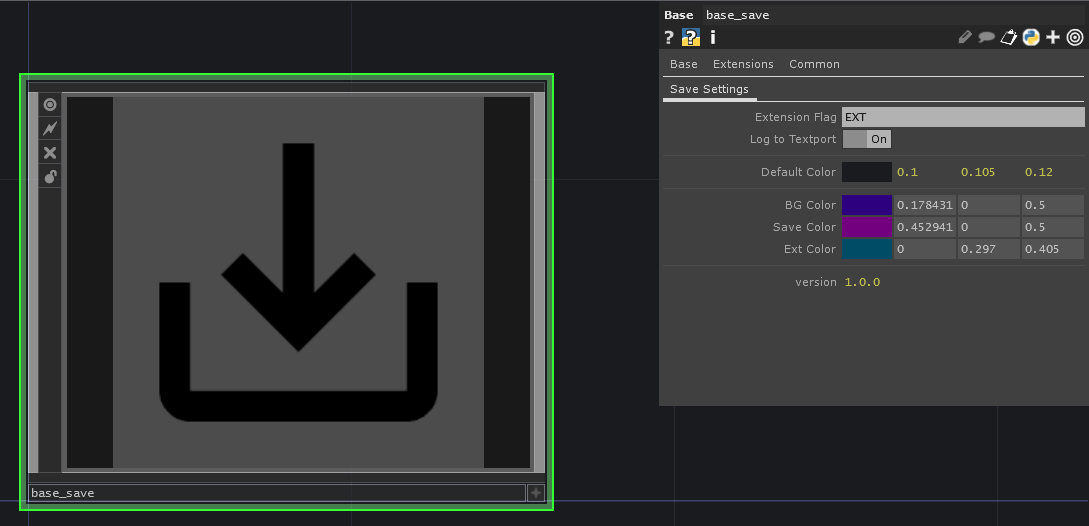
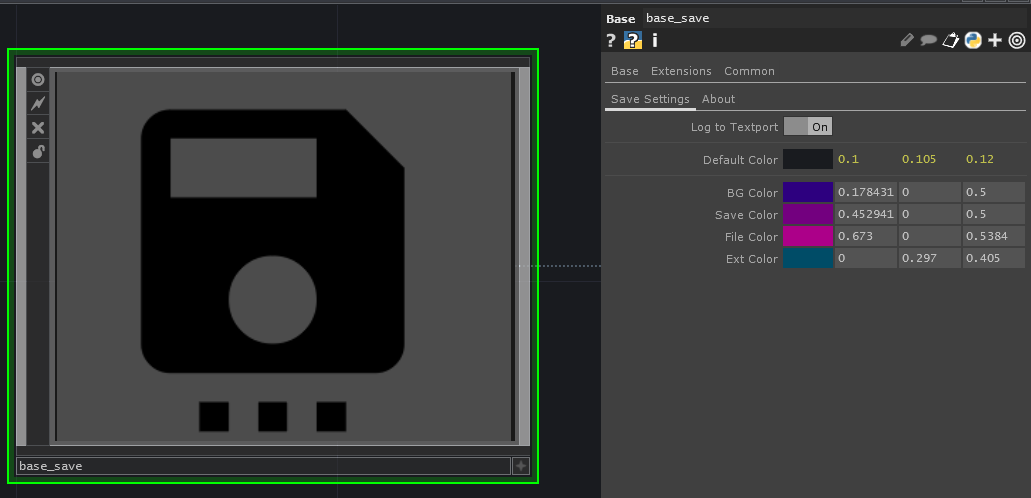
Ready for Merge
Updated Readme
Updated Examples

diff --git a/README.md b/README.md
@@ -1,9 +1,9 @@
 # TouchDesigner Save External
 *a simple save external tox and text helper*  
-[matthew ragan](matthewragan.com)
+[matthew ragan](matthewragan.com) | [SudoMagic](sudomagic.com)
 
 ## TouchDesigner Version
-* 099 2018.26750
+* 099 2021.13610
 
 ## OS Support
 * Windows 10
@@ -20,20 +20,10 @@ That makes these components excellent candidates for externalization, but it tak
 
 ## Supported File Types
 * `.tox`
-* `.py`
-* `.glsl`
-* `.json`
-
-In addition to externalizing tox files, it's often helpful to also externalize any files that can be dffed in git - that is any files you can compare meaningfully. When it comes to your version control tool, this means that you can track the changes you or a team member have made from one commit to another. Being able to see what changed over time can help you determine why one version works and another does not. Practically speaking, this usually comes in the form of python files, glsl, or json files. This little tool supports the above file types, and goes a little further. 
-
-"What's further mean?" You ask - and I'm so glad you did. Furhter means that if you change this file outside of touch - say in a text editor like Sublime or Visual Studio Code, this TOX module will watch to see if that file has changed, and if it has pulse reload the operator that's referencing that file. Better still, if it's an extension, the `parent()` operator will have its extensions reinitialized. There's a little set-up and convention required there, but well worth it if you happen to use extension on a regular basis. 
 
 
 # Parameters
-![base save and pars](https://github.com/raganmd/touchdesigner-save-external/blob/master/assets/base_save_and_pars.PNG?raw=true)  
-
-### Extension Flag
-The Extension Flag is the tag you will add to any text DAT that you're using as an extension. This ensures that we can easily identify which text DATs are being used as externally edited extensions, and reload both the contents of the DAT, as well reinitialize the extensions for the `parent()` operator. You can use any descriptor here that you like - I happen to think that something like `EXT` works well.
+![base save and pars](assets/base_save_and_pars.PNG)  
 
 ### Log to Texport
 If you want to track when and where your external files are being saved, or if you're worried that something might be going wrong, you can turn on the `Logtotextport` parmeter to see the results of each save operation logged for easy view and tracking.
@@ -42,35 +32,31 @@ If you want to track when and where your external files are being saved, or if y
 The default color is set as a read-only parameter used to reset the network worksheet background color. This is used in conjunction with the following two parameters to provide visual indicators for when a save or load operation has happened.
 
 ### BG Color
-This is the color that the network background will flash when you externalize a TOX - it's the visual indicator that your tox has been sucessfully saved.
+This is the color that the network background will flash when you externalize a TOX - it's the visual indicator that your tox has been successfully saved.
 
 ### Save Color
 This is the color that the network background will flash save a text based file in an external editor - it's the visual indicator that your file has been reloaded.
 
+### File Color
+All DATs that have been externalized can be set to this color so you can more quickly identify external text files.
+
 ### EXT Color
-This is the color used to set the node color of your newly externalized tox - this can help ensure that at a glance you can tell which operators have been externalized.
+This is the color used to set the node color of your newly externalized tox - this can help ensure that at a glance you can tell which operators have been externalized. Changing this parameter will also update the color of all external components. This change isn't saved until you manually save each component.
 
 ### Version
 The version number for this tool.
 
-# Operation
-
-### `reinitextensions.pulse()`
-If you want to use this in conjunction with extensions, you'll need to follow a few conventions: 
-* The text DAT that references an extension needs to be inside of the COMP uses it as an extension. For example - let's say you have a text DAT that holds an extension called `Project`, this needs to live inside of the COMP that is using it as an extension.
-* The file you're editing needs to end in `.py`. This might seem obvious, but it's important that the file you're editing is a python file. There are a number of checks that happen to make sure that we don't just reinit COMPs willy nilly, and this is one of those safety measures. 
-* The text DAT holding the extension needs to be tagged `EXT` - or whatever Extension Flag you've set in the parameters for the TOX. This makes sure that we don't just reinit the extensions of our parent every-time any .py file is saved, but only if the that file belongs is being read by a textDAT that's marked as being an extension.
-
-### `ctrl+s`
+### `ctrl+w`
 The way you'll use this tox is just as if you were working as you might normally. Only, when you hit `ctrl + s`, if you're inside of a COMP that hasn't been saved externally, you'll be asked if you want to externalize that module. If you select `yes` you'll next be asked where you want to save that module. This module will then create a folder that has the same name as your component, and save the tox inside of that folder (the tox will also have the same name as the component). Better yet, this module will auto-populate the path to the external tox with the location you've selected. When you press `ctrl + s` again it will warn you that you're about to over-write your tox. If you confirm that you want to replace your tox, it will save the updated version right where your previous tox was located. 
 
-### Using a text editor
-If you're using a text editor for supported externalized files, than work as you normally might. When you save your file in your text editor Touch will automatically reload the file in Touch. If your text DAT is tagged `EXT` it will also reinit the extensions of the text DAT's `parent()`. 
+### `ctrl+shift+w`
+In addition to saving a single file, you can also see all the components that you've changed by using this shortcut. This will open a menu of all `dirty` components that may need to be saved. You can then save them directly from this menu.
+
 
 # Suggested Workflow
 ## Externalization Only
 1. Create a directory for your project  
-![create-a-dir](https://github.com/raganmd/touchdesigner-save-external/blob/master/assets/create-project-dir.PNG?raw=true)
+![create-a-dir](assets/create-project-dir.PNG)
 
 2. Open TouchDesigner and save your `.TOE` file in your new directory **this is an important step** - saving your project makes sure that the member `project.folder` correct points to your `.TOE` file.  
 ![create-a-project](https://github.com/raganmd/touchdesigner-save-external/blob/master/assets/create-project-toe.PNG?raw=true)
@@ -79,80 +65,53 @@ If you're using a text editor for supported externalized files, than work as you
 ![drag-into-network](assets/drag-into-network.gif)
 
 4. Create a new component, and navigate inside of this new COMP.  
-![create-a-new-comp](https://github.com/raganmd/touchdesigner-save-external/blob/master/assets/create-new-comp.PNG?raw=true)
+![create-a-new-comp](assets/create-new-comp.PNG)
 
 5. Use `ctrl + s` to save your project as you might usually.
 6. Notice that you're now prompted to save your COMP externally - select `Yes`  
-![ctrl-s](https://github.com/raganmd/touchdesigner-save-external/blob/master/assets/prompt-to-externalize.PNG?raw=true)
+![ctrl-s](assets/prompt-to-externalize.PNG)
 
 7. Create a new folder in your project folder called `td-modules` (this is my suggestion, though you can use any name you like). Navigate into this folder and compete the save process.  
-![create-a-modules-dir](https://github.com/raganmd/touchdesigner-save-external/blob/master/assets/create-td-modules-dir.PNG?raw=true)
+![create-a-modules-dir](assets/create-td-modules-dir.PNG)
 
 8. Check finder (macOS) or explorer (windows) to see that in `td-moduels` you now have a new directory for your tox, and inside of that directory is your saved tox file.  
-![newly-made-dir](https://github.com/raganmd/touchdesigner-save-external/blob/master/assets/new-save-dir.PNG?raw=true)  
-![newly-saved-tox](https://github.com/raganmd/touchdesigner-save-external/blob/master/assets/new-save-tox.PNG?raw=true) 
+![newly-made-dir](assets/new-save-dir.PNG)  
+![newly-saved-tox](assets/new-save-tox.PNG) 
 
 9. Notice that the color of your tox has changed so you know that it's externalized.  
-![external-tox-color](https://github.com/raganmd/touchdesigner-save-external/blob/master/assets/external-tox-color.PNG?raw=true)
+![external-tox-color](hassets/external-tox-color.PNG)
 
-10. Continue to work and save. Note that when you use `ctrl+s` both your project and your tox are saved. If you happen to create an external `.TOX` inside of a tox that's already externalized, you'll be prompted to save both the `parent()` and the current COMP or just the current COMP.
+10. Continue to work and save. Note that when you use `ctrl+w` both your project and your tox are saved. If you happen to create an external `.TOX` inside of a tox that's already externalized, you'll be prompted to save both the `parent()` and the current COMP or just the current COMP.
 
 ## Using Git
 1. Create a new repo
 2. Clone / Initialize your repo locally
 3. Open TouchDesigner and save your `.TOE` file in your repo  
-![create-a-project](https://github.com/raganmd/touchdesigner-save-external/blob/master/assets/create-project-toe.PNG?raw=true)
+![create-a-project](assets/create-project-toe.PNG)
 
 4. Drop the `base_save.tox` from `touchdesigner-save-external\release` into your network - I'd recommend doing this at the root of your project, or in a place in your project specifically designed to hold other tools. I like to create a base called tools where I keep all the things that I use for development, or that any machine might need (meaning when you're thinking on a single `.TOE` file that's configured based on a machine's role)  
 ![drag-into-network](assets/drag-into-network.gif)
 
 5. Create a new component, and navigate inside of this COMP.  
-![create-a-new-comp](https://github.com/raganmd/touchdesigner-save-external/blob/master/assets/create-new-comp.PNG?raw=true)
+![create-a-new-comp](assets/create-new-comp.PNG)
 
-6. Use `ctrl + s` to save your project as you might usually.
+6. Use `ctrl + w` to save your project as you might usually.
 7. Notice that you're now prompted to save your COMP externally - select `Yes`  
-![ctrl-s](https://github.com/raganmd/touchdesigner-save-external/blob/master/assets/prompt-to-externalize.PNG?raw=true)
+![ctrl-s](assets/prompt-to-externalize.PNG)
 
 8. Create a new folder in your project folder called `td-modules` (this is my suggestion, though you can use any name you like). Navigate into this folder and compete the save process.  
-![create-a-modules-dir](https://github.com/raganmd/touchdesigner-save-external/blob/master/assets/create-td-modules-dir.PNG?raw=true)
+![create-a-modules-dir](assets/create-td-modules-dir.PNG)
 
 9. Check finder (macOS) or explorer (windows) to see that in `td-moduels` you now have a new directory for your tox, and inside of that directory is your saved tox file.  
-![newly-made-dir](https://github.com/raganmd/touchdesigner-save-external/blob/master/assets/new-save-dir.PNG?raw=true)  
-![newly-saved-tox](https://github.com/raganmd/touchdesigner-save-external/blob/master/assets/new-save-tox.PNG?raw=true)  
+![newly-made-dir](assets/new-save-dir.PNG)  
+![newly-saved-tox](assets/new-save-tox.PNG?)  
 
 10. Notice that the color of your tox has changed so you know that it's externalized.  
-![external-tox-color](https://github.com/raganmd/touchdesigner-save-external/blob/master/assets/external-tox-color.PNG?raw=true)
+![external-tox-color](assets/external-tox-color.PNG)
 
-11. Continue to work and save. Note that when you use `ctrl+s` both your project and your tox are saved. If you happen to create an external `.TOX` inside of a tox that's already externalized, you'll be prompted to save both the `parent()` and the current COMP or just the current COMP.
+11. Continue to work and save. Note that when you use `ctrl+w` both your project and your tox are saved. If you happen to create an external `.TOX` inside of a tox that's already externalized, you'll be prompted to save both the `parent()` and the current COMP or just the current COMP.
 12. Commit and push your work.
 
-## External Text based files
-1. Start by following the instructions above to set up your project with the `base_save.tox`
-2. Create a folder in your project for scripts or modules.  
-![scripts](assets/scripts.png)
-
-3. Add a new text DAT to your network, right click and save externally.  
-![external-script](assets/external-script.gif)
-
-4. Set path to your external file in your text DAT and turn on the load on start parameter.  
-![set-path](https://github.com/raganmd/touchdesigner-save-external/blob/master/assets/set-path.PNG?raw=true)
-
-5. Now open your text file in your external editor and work directly with your text file. When you save your file you should see the background of TouchDesigner flash, and the contents of your text DAT reload.  
-![external-editor](assets/work-in-external-editor.gif)
-
-## External Extensions
-1. Start by following the instructions above to set up your project with the `base_save.tox`
-2. Follow the instructions above for externalizing a python file - this time, make sure you save your `.py` file inside of your tox's folder, and make sure that the text DAT is inside of the component that will use the extensions.  
-![py-file-with-comp](https://github.com/raganmd/touchdesigner-save-external/blob/master/assets/py-file-with-comp.PNG?raw=true)
-
-3. Tag your text DAT with `EXT` or whatever extension flag you've chosen.  
-![add-tag](https://github.com/raganmd/touchdesigner-save-external/blob/master/assets/add-tag.PNG?raw=true)
-
-4. Set up a simple extension.  
-![ext-set-up](https://github.com/raganmd/touchdesigner-save-external/blob/master/assets/ext-set-up.PNG?raw=true)
-
-5. Now open your extension in your external editor and work directly with your `.py` file. When you save your file you should see the background of TouchDesigner flash, the contents of your text DAT reload, and your extension will be reinitialized.  
-![updating-ext](assets/updating-ext.gif)
 
 # Additional Considerations and Suggestions
 At this point, you might have guess that this kind of approach works best in well structured projects. Some suggestions for organization and approach:
